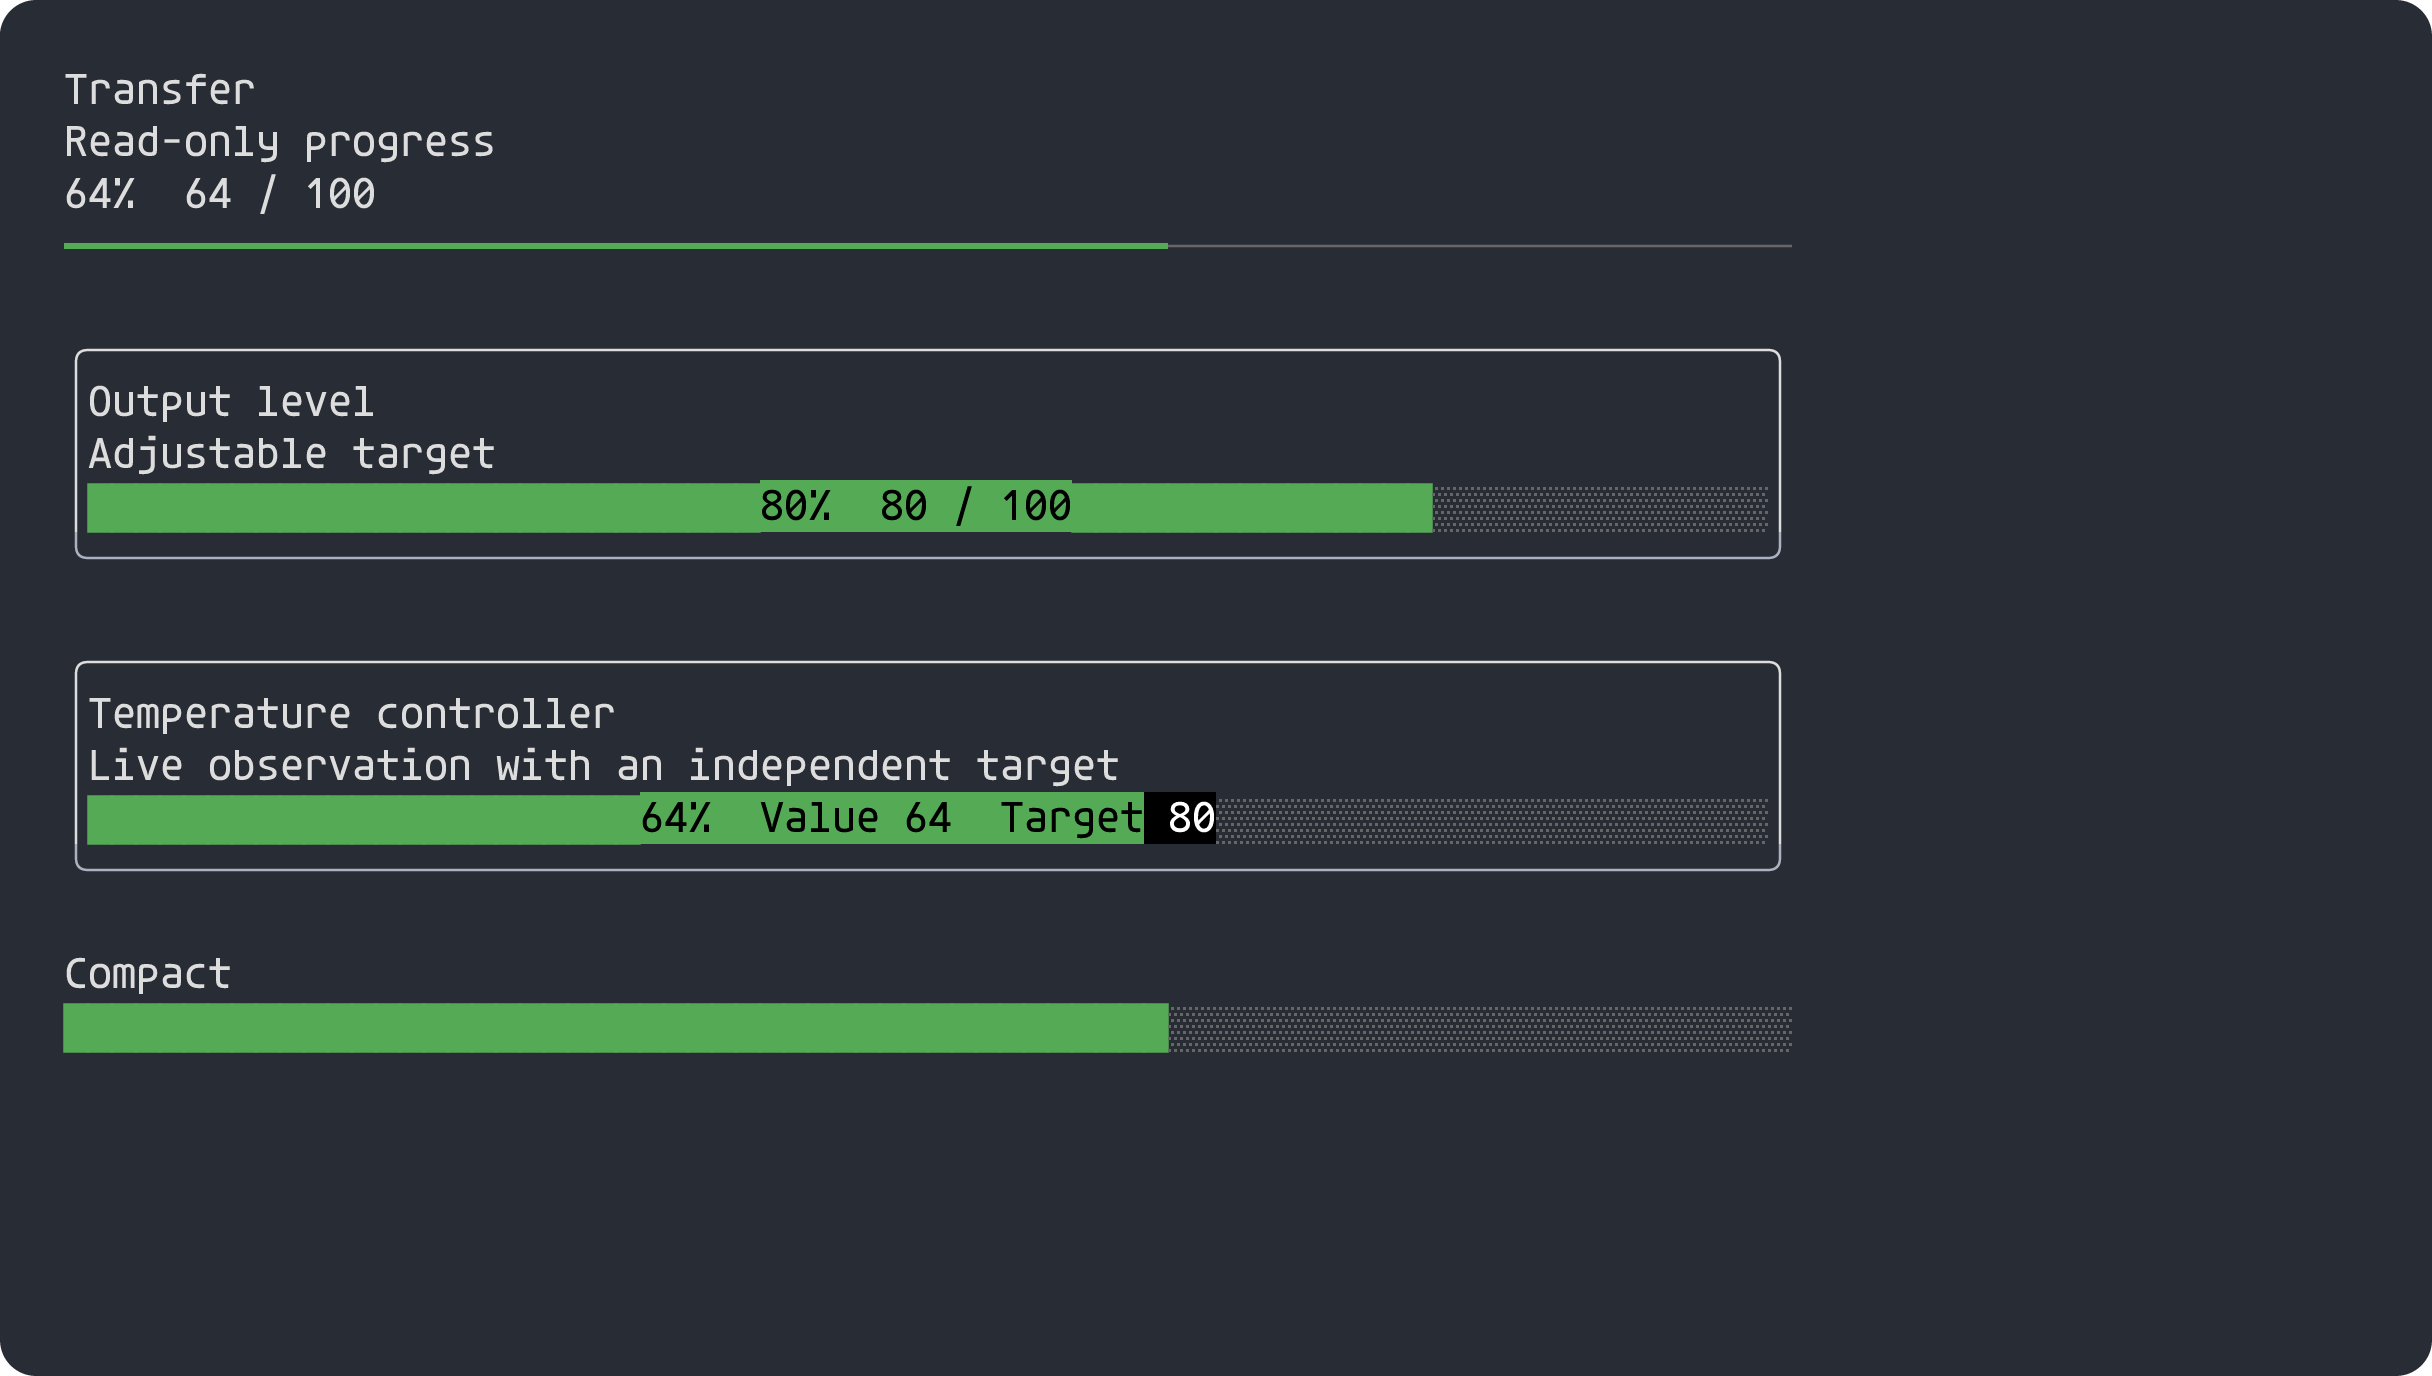
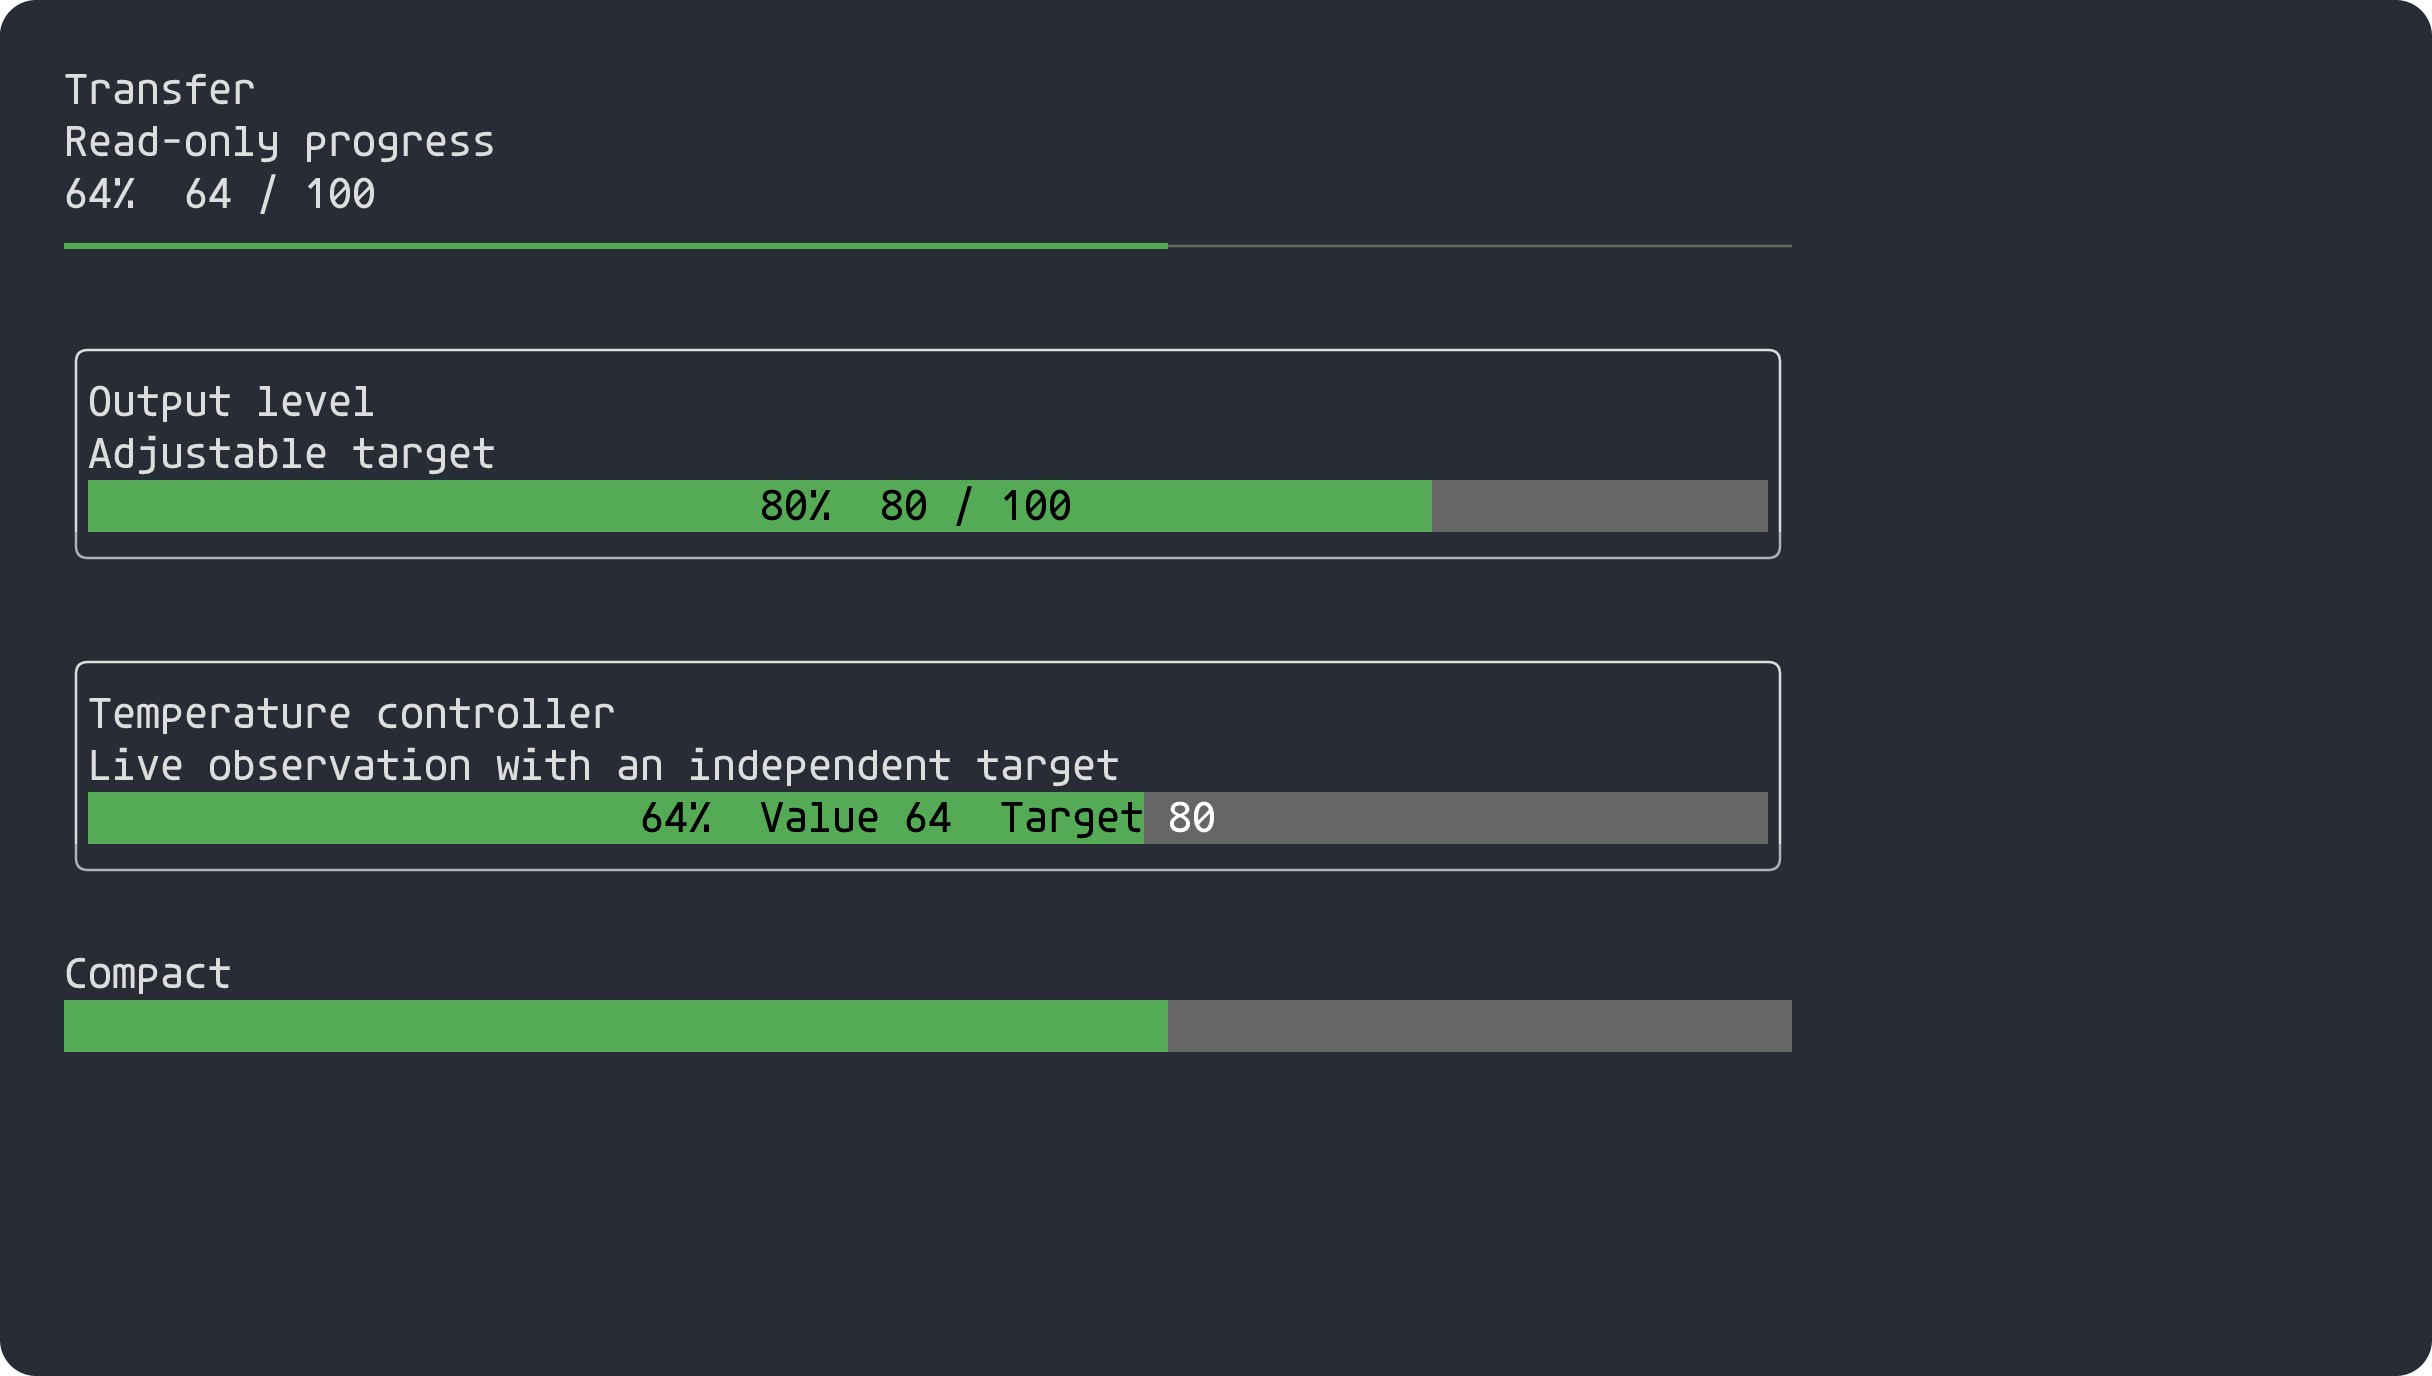
Render solid meter tracks with consistent cell backgrounds

Changed region(s): [[0.4688, 0.7188, 0.75, 0.7812], [0.4688, 0.5625, 0.75, 0.625], [0.5625, 0.3438, 0.75, 0.4062]]

diff --git a/tests/meter_checks.cpp b/tests/meter_checks.cpp
@@ -24,7 +24,23 @@ int main(){
         assert(rows==lines&&out.find('\033')==std::string::npos);
     }
     s.width=48;s.unicode=1;s.color=1;s.style=PS_METER_BLOCKS;s.text=PS_METER_TEXT_INSIDE;
-    std::string out;ps_meter_render(&m,&s,output,&out);assert(out.find("█")!=std::string::npos);
+    std::string out;ps_meter_render(&m,&s,output,&out);assert(out.find("█")==std::string::npos&&out.find("░")==std::string::npos);
+    assert(out.find("\033[30;42m")!=std::string::npos&&out.find("\033[97;100m")!=std::string::npos);
+    /* Filled/empty boundaries must use the same cell surface inside and outside labels. */
+    for(unsigned text=0;text<3;++text)for(unsigned value=0;value<=100;value+=20){
+        m.minimum=0;m.maximum=100;m.observed=value;s.text=text;out.clear();
+        ps_meter_render(&m,&s,output,&out);
+        assert(out.find("█")==std::string::npos&&out.find("░")==std::string::npos);
+        size_t pos=0;unsigned cells=0;
+        while((pos=out.find("\033[",pos))!=std::string::npos){
+            if(out.compare(pos,8,"\033[30;42m")==0||out.compare(pos,9,"\033[97;100m")==0)++cells;
+            ++pos;
+        }
+        assert(cells==s.width-(s.panel?2:0));
+    }
+    s.color=0;s.text=PS_METER_TEXT_NONE;m.observed=50;out.clear();ps_meter_render(&m,&s,output,&out);
+    assert(out.find("█")!=std::string::npos&&out.find("░")!=std::string::npos&&out.find('\033')==std::string::npos);
+    s.color=1;
     s.style=PS_METER_TICKS;s.text=PS_METER_TEXT_NONE;
     out.clear();ps_meter_render(&m,&s,output,&out);assert(out.find("┃")!=std::string::npos);
     s.style=PS_METER_CHEVRONS;out.clear();ps_meter_render(&m,&s,output,&out);

diff --git a/include/portable_meter.h b/include/portable_meter.h
@@ -127,7 +127,13 @@ static inline unsigned ps_meter_render(const ps_meter *m,const ps_meter_style *s
         if(s->color)ps_meter_emit(write,ctx,"\033[33m");
         ps_meter_emit(write,ctx,field);
     }else for(i=0;i<width;++i){
-        if(n&&i>=start&&i<start+n){
+        /* A colored solid track uses cell backgrounds throughout. Mixing font
+         * block glyphs with label backgrounds produces font-dependent seams. */
+        if(s->color&&s->style==PS_METER_BLOCKS){
+            ps_meter_emit(write,ctx,i<filled?"\033[30;42m":"\033[97;100m");
+            if(n&&i>=start&&i<start+n)write(ctx,(const unsigned char *)value+i-start,1);
+            else ps_meter_emit(write,ctx," ");
+        }else if(n&&i>=start&&i<start+n){
             if(s->color)ps_meter_emit(write,ctx,i<filled?"\033[30;42m":"\033[97;40m");
             write(ctx,(const unsigned char *)value+i-start,1);
         }else{
